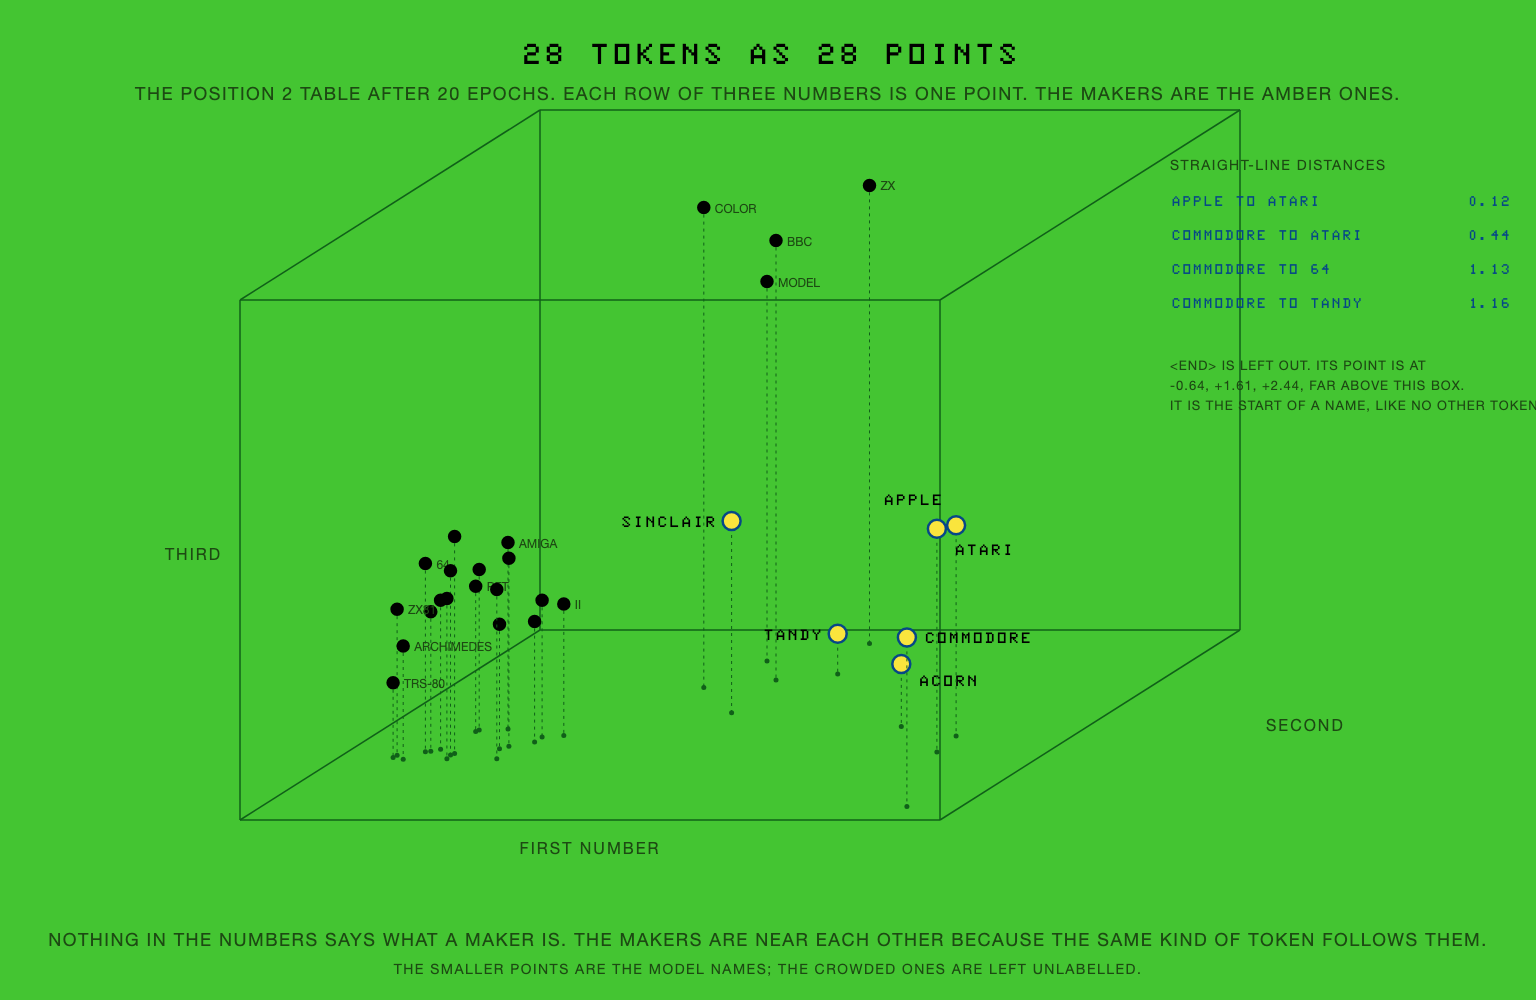
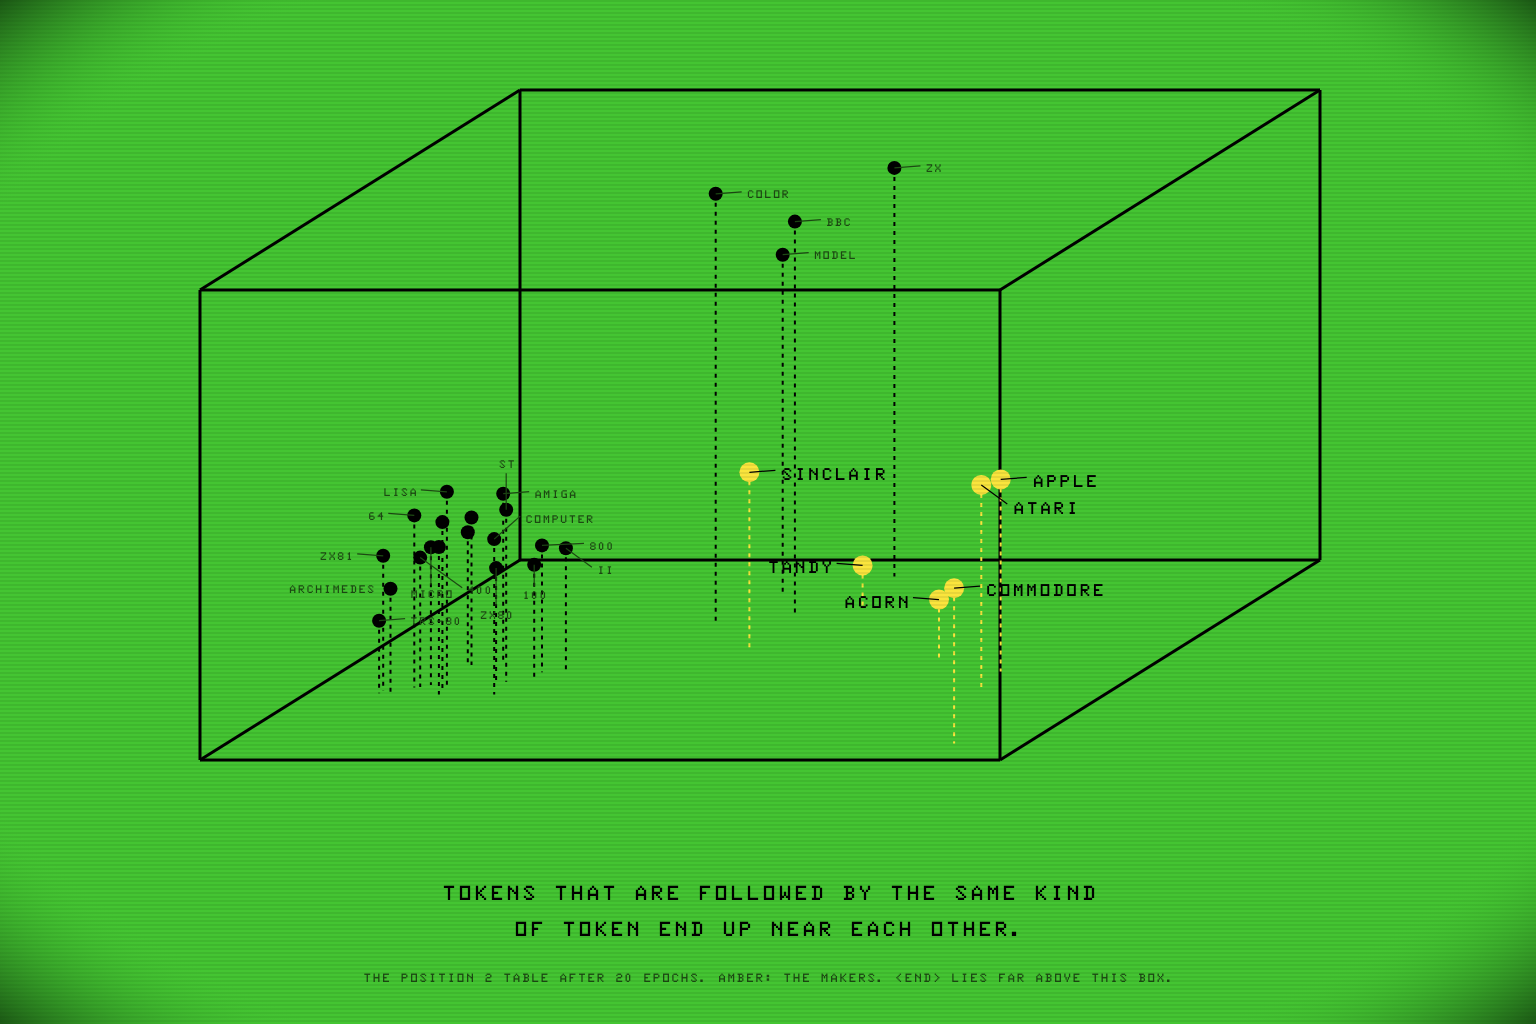
presentation: the trained-embeddings chart redrawn in the illustration's style
Same oblique box, drop lines, scanlines and lesson line as the generated
concept image, with every maker named and the model names labelled where
a label fits without covering a point. Post 2 uses it again.

Claude-Session-Id: 4357d8c4-2d07-4eca-b1c8-58cc22a0a7d2

diff --git a/presentation/posts/02-where-the-numbers-live.md b/presentation/posts/02-where-the-numbers-live.md
@@ -37,7 +37,7 @@ Each row of three is a token's embedding, placing it among other tokens accordin
 
 Here is the second table after the 20 epochs, as points in a box:
 
-![An illustration on the CoCo's green screen: a wireframe box in oblique view holding about thirty points, each with a dashed drop line to the floor. Six larger amber points sit close together and are labelled ACORN, APPLE, ATARI, COMMODORE, SINCLAIR and TANDY; the rest are small black points spread through the other side of the box. A caption at the bottom reads: tokens that are followed by the same kind of token end up near each other.](images/points-in-a-box-concept.png)
+![The position 2 table after 20 epochs, drawn on the CoCo's green screen as points inside a wireframe box, each with a dashed drop line to the floor. The six makers are larger amber points close together on the right, labelled ACORN, APPLE, ATARI, COMMODORE, SINCLAIR and TANDY. The model names are small black points bunched on the left, most of them labelled, with COLOR, BBC, ZX and MODEL high up on their own. A caption reads: tokens that are followed by the same kind of token end up near each other; END lies far above this box.](images/twenty-nine-points.png)
 
 APPLE and ATARI are 0.12 apart. COMMODORE is 0.44 from ATARI and 1.13 from 64. Nothing in the numbers says what a maker is. The makers ended up near each other because the same kind of token follows them. COLOR, BBC, ZX and MODEL sit high up on their own for the same reason: each is followed by another word, COMPUTER, MICRO, SPECTRUM, 100. That is what this space records: not what the words mean, but how and where they are encountered together. END is left off the figure because it sits far above everything else, and it should: it is the start of a name, and nothing else is.
 
